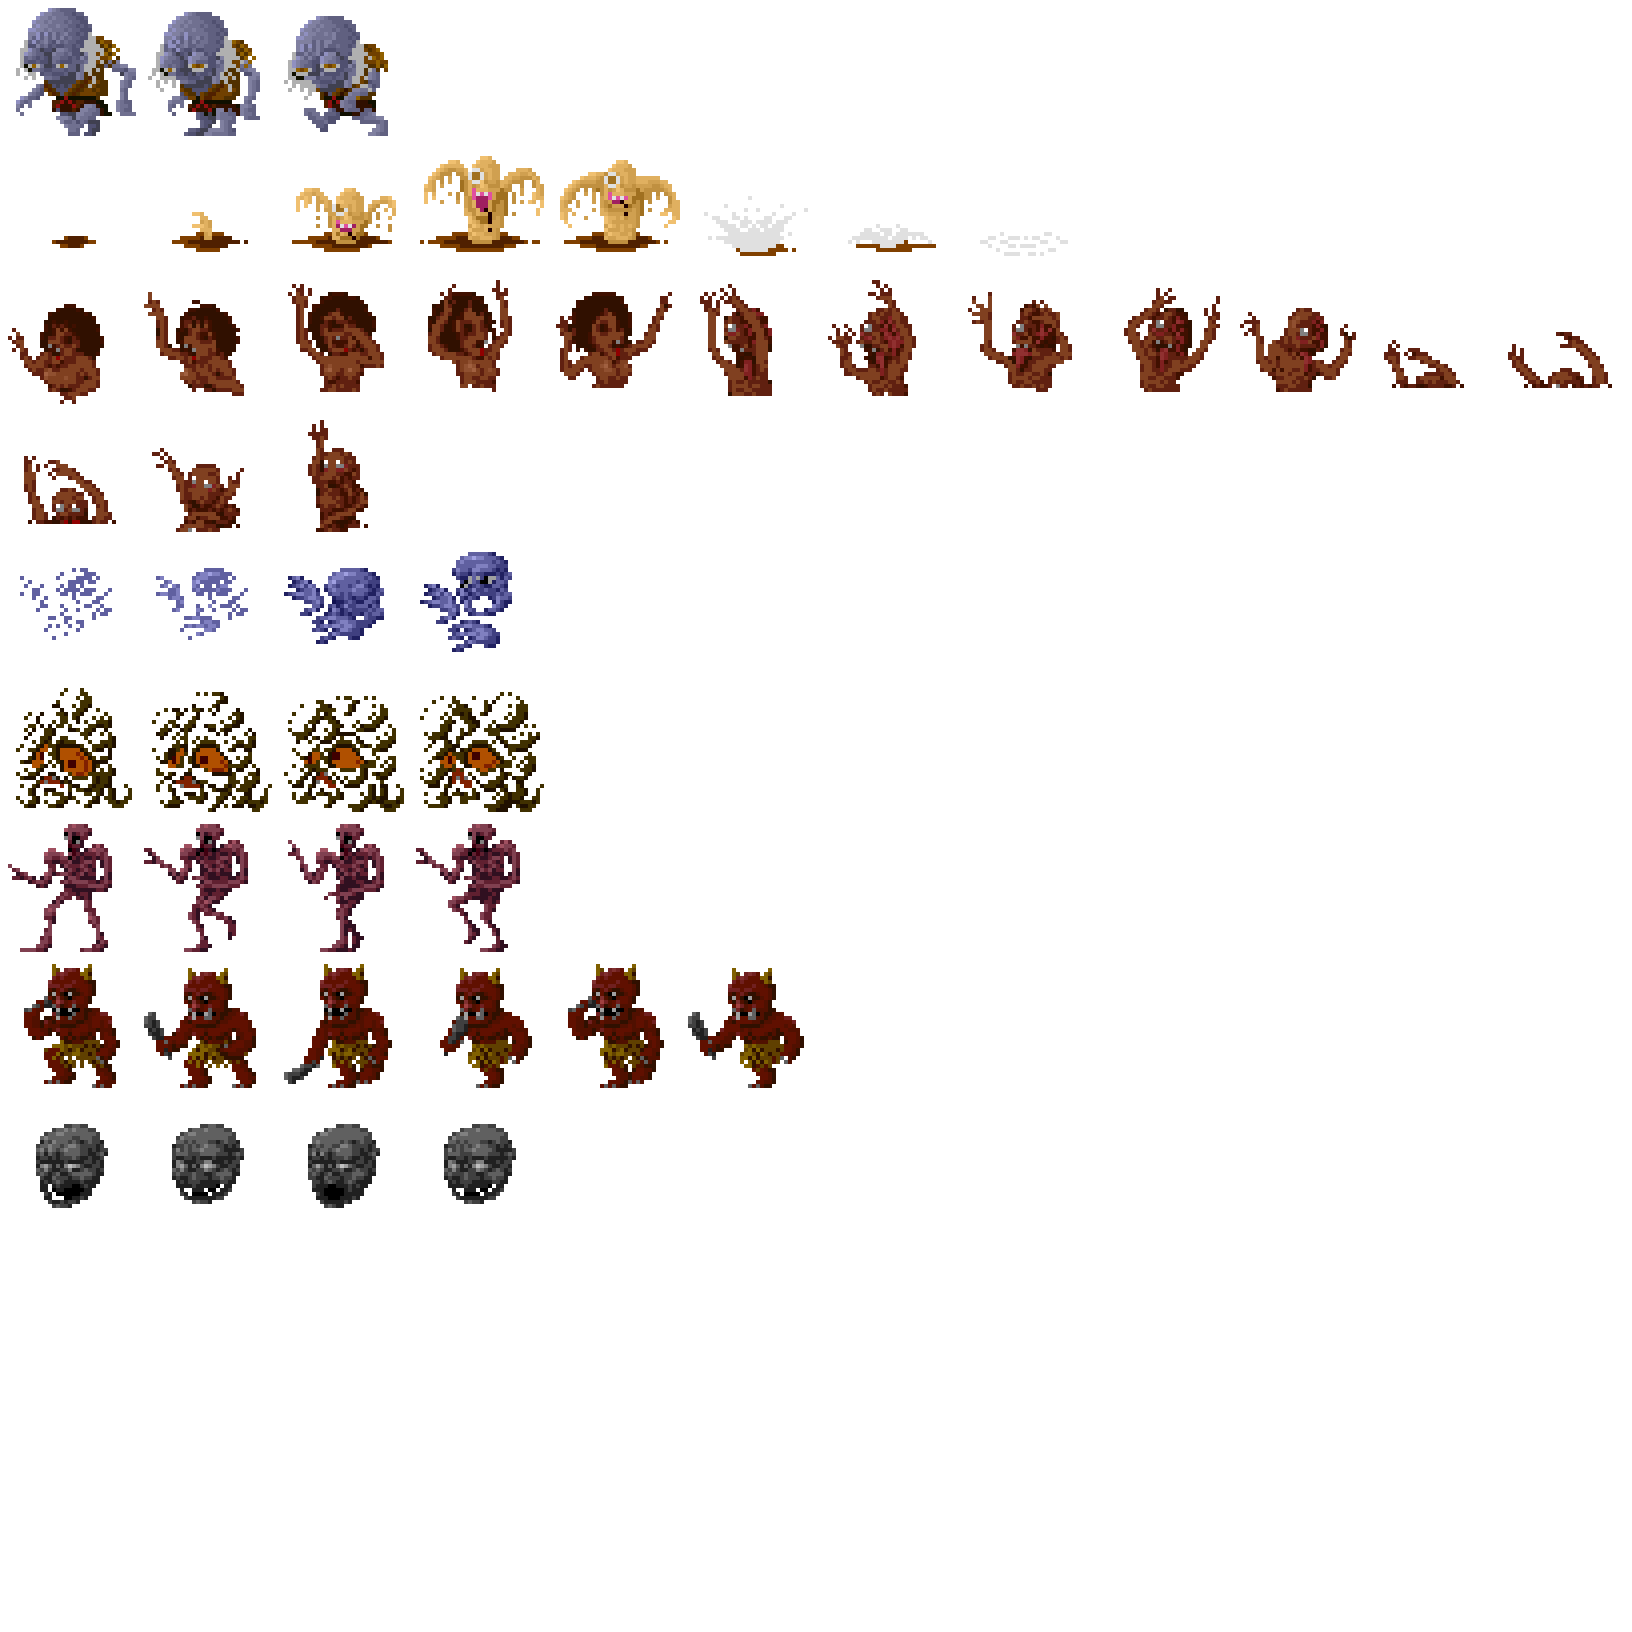
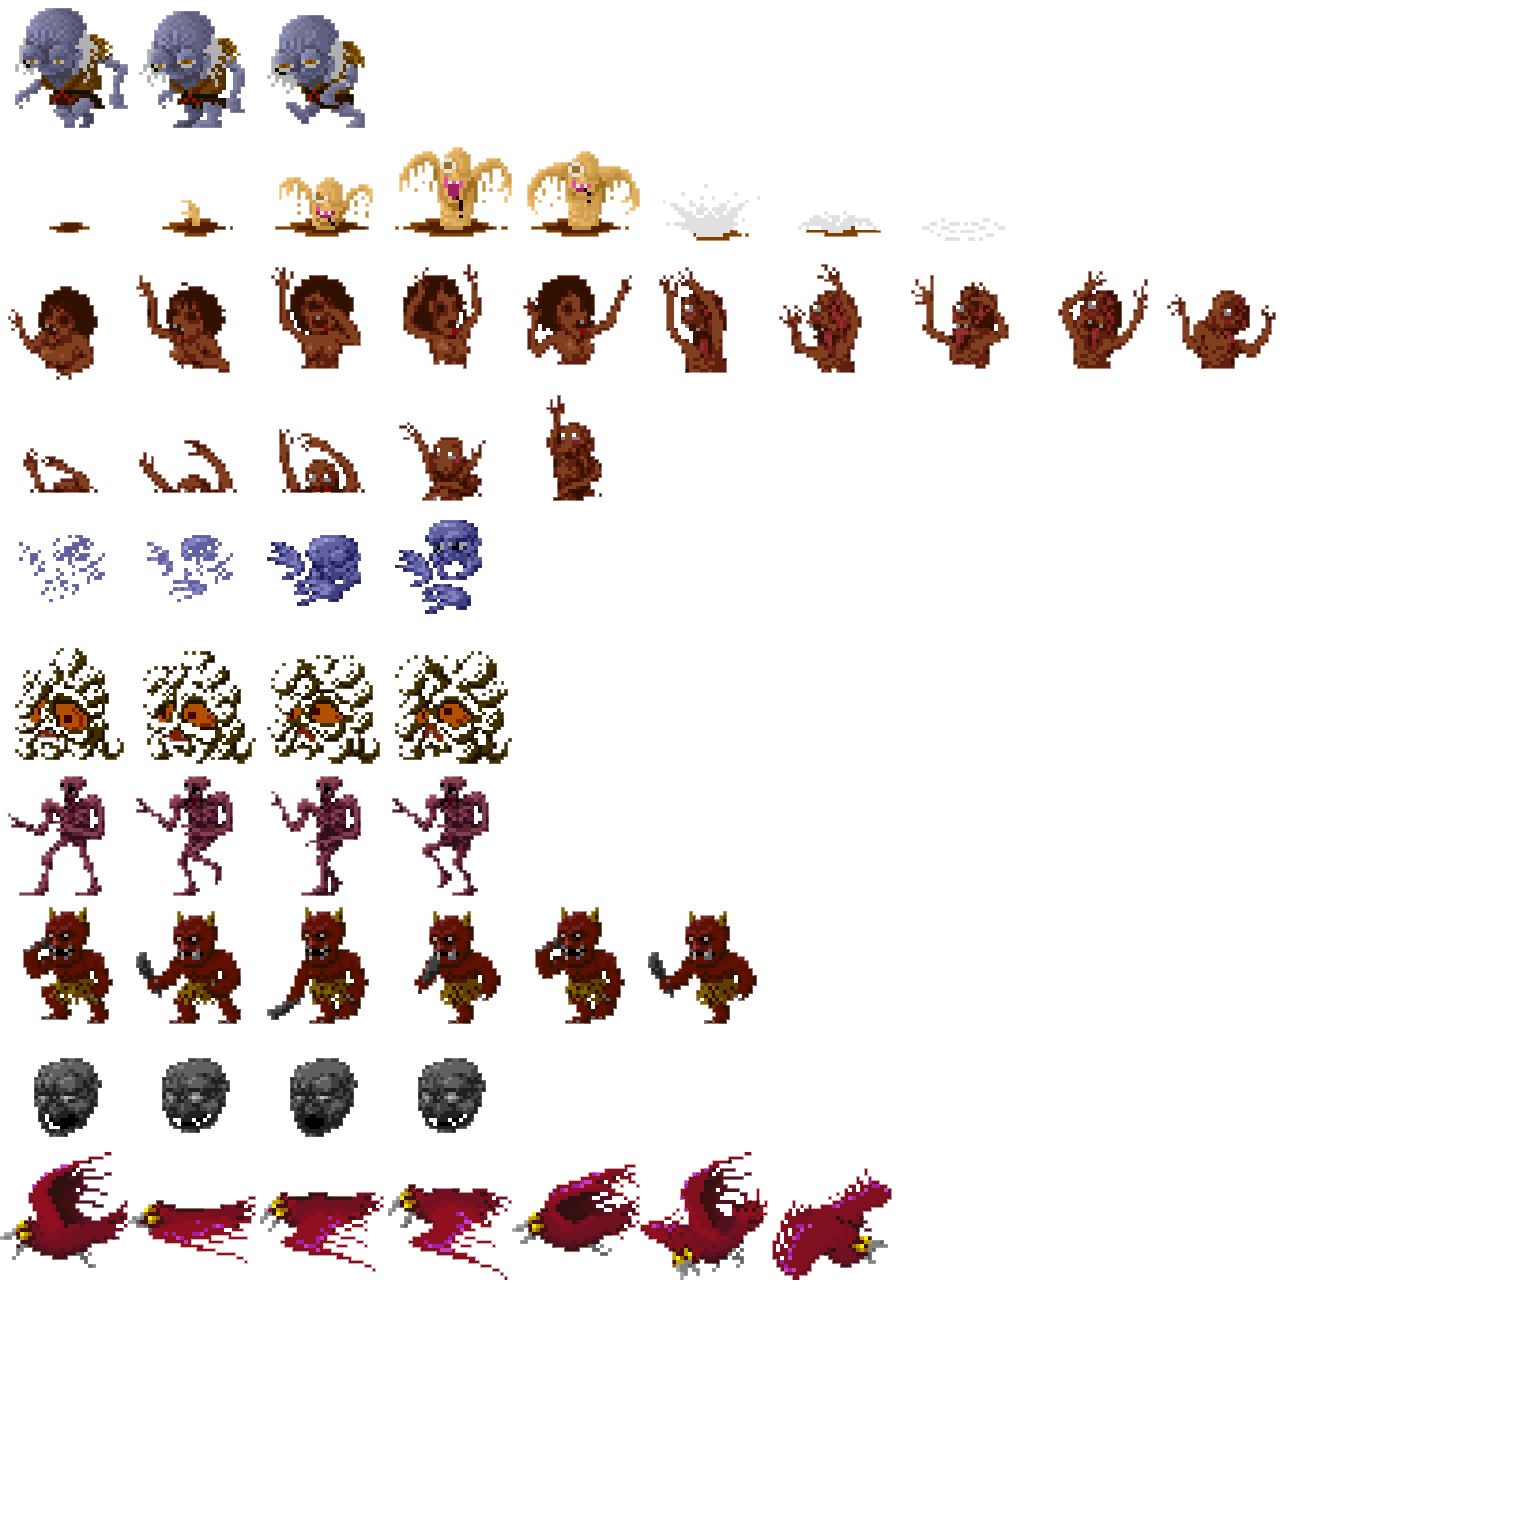
亡者を追加

diff --git a/Solution/EnemyManager.cpp b/Solution/EnemyManager.cpp
@@ -13,7 +13,8 @@
 #include "EnemyRedbirdAttack.h"
 #include "EnemyMoth.h"
 #include "EnemyTree.h"
-#include "EnemyDeceased.h"
+#include "EnemyDeceasedFirst.h"
+#include "EnemyDeceasedSecond.h"
 #include "EnemyFlog.h"
 #include "EnemyStone.h"
 #include "Map.h"
@@ -165,7 +166,9 @@ void EnemyManager::createByField( unsigned int enemy_data, CameraConstPtr camera
 	}
 	
 	if ( data & DECEASED ) {
-		_enemies.push_back( EnemyPtr ( new EnemyDeceased( _enemy_stock, pop_base_x, TREE_POP_Y ) ) );
+		const int INTERVAL = 128;
+		_enemies.push_back( EnemyPtr ( new EnemyDeceasedFirst( _enemy_stock, pop_base_x, TREE_POP_Y ) ) );
+		_enemies.push_back( EnemyPtr ( new EnemyDeceasedSecond( _enemy_stock, pop_base_x += INTERVAL, TREE_POP_Y ) ) );
 	}
 	
 	if ( data & FLOG ) {

diff --git a/Solution/EnemyDeceasedFirst.cpp b/Solution/EnemyDeceasedFirst.cpp
@@ -1,4 +1,4 @@
-#include "EnemyDeceased.h"
+#include "EnemyDeceasedFirst.h"
 
 static const int WAIT_ANIME_TIME = 6;
 static const int CHIP_SIZE = 128;
@@ -6,15 +6,15 @@ static const int CHIP_FOOT = 0;
 static const int HP  = 10;
 static const int POW = 10;
 
-EnemyDeceased::EnemyDeceased( EnemyStockPtr enemy_stock, int x, int y ) :
+EnemyDeceasedFirst::EnemyDeceasedFirst( EnemyStockPtr enemy_stock, int x, int y ) :
 Enemy( enemy_stock, x, y, CHIP_SIZE, CHIP_FOOT, false, HP, POW ),
 _count( 0 ) {
 }
 
-EnemyDeceased::~EnemyDeceased( ) {
+EnemyDeceasedFirst::~EnemyDeceasedFirst( ) {
 }
 
-void EnemyDeceased::act( ) {
+void EnemyDeceasedFirst::act( ) {
 	const int MAX_ANIME_PATTERN = 5;
 	_count++;
 	_count %= WAIT_ANIME_TIME * MAX_ANIME_PATTERN;

diff --git a/Solution/EnemyDeceasedSecond.cpp b/Solution/EnemyDeceasedSecond.cpp
@@ -1,0 +1,24 @@
+#include "EnemyDeceasedSecond.h"
+
+static const int WAIT_ANIME_TIME = 10;
+static const int CHIP_SIZE = 128;
+static const int CHIP_FOOT = 0;
+static const int HP  = 10;
+static const int POW = 10;
+
+EnemyDeceasedSecond::EnemyDeceasedSecond( EnemyStockPtr enemy_stock, int x, int y ) :
+Enemy( enemy_stock, x, y, CHIP_SIZE, CHIP_FOOT, false, HP, POW ),
+_count( 0 ) {
+}
+
+EnemyDeceasedSecond::~EnemyDeceasedSecond( ) {
+}
+
+void EnemyDeceasedSecond::act( ) {
+	const int MAX_ANIME_PATTERN = 5;
+	const int ANIME_PATTERN_START = 5;
+	_count++;
+	_count %= WAIT_ANIME_TIME * MAX_ANIME_PATTERN;
+	int pattern = _count / WAIT_ANIME_TIME % ( MAX_ANIME_PATTERN - 1 ) + ANIME_PATTERN_START;
+	setChipGraph( GRAPH_ENEMY_1, pattern, 2 );
+}

diff --git a/Solution/EnemyDeceasedSecond.h b/Solution/EnemyDeceasedSecond.h
@@ -1,0 +1,13 @@
+#pragma once
+#include "Enemy.h"
+
+class EnemyDeceasedSecond : public Enemy {
+public:
+	EnemyDeceasedSecond( EnemyStockPtr enemy_stock, int x, int y );
+	virtual ~EnemyDeceasedSecond( );
+private:
+	void act( );
+private:
+	int _count;
+};
+

diff --git a/Solution/EnemyDeceasedFirst.h b/Solution/EnemyDeceasedFirst.h
@@ -1,0 +1,14 @@
+#pragma once
+
+#include "Enemy.h"
+
+class EnemyDeceasedFirst : public Enemy {
+public:
+	EnemyDeceasedFirst( EnemyStockPtr enemy_stock, int x, int y );
+	virtual ~EnemyDeceasedFirst( );
+
+private:
+	void act( );
+private:
+	int _count;
+};
